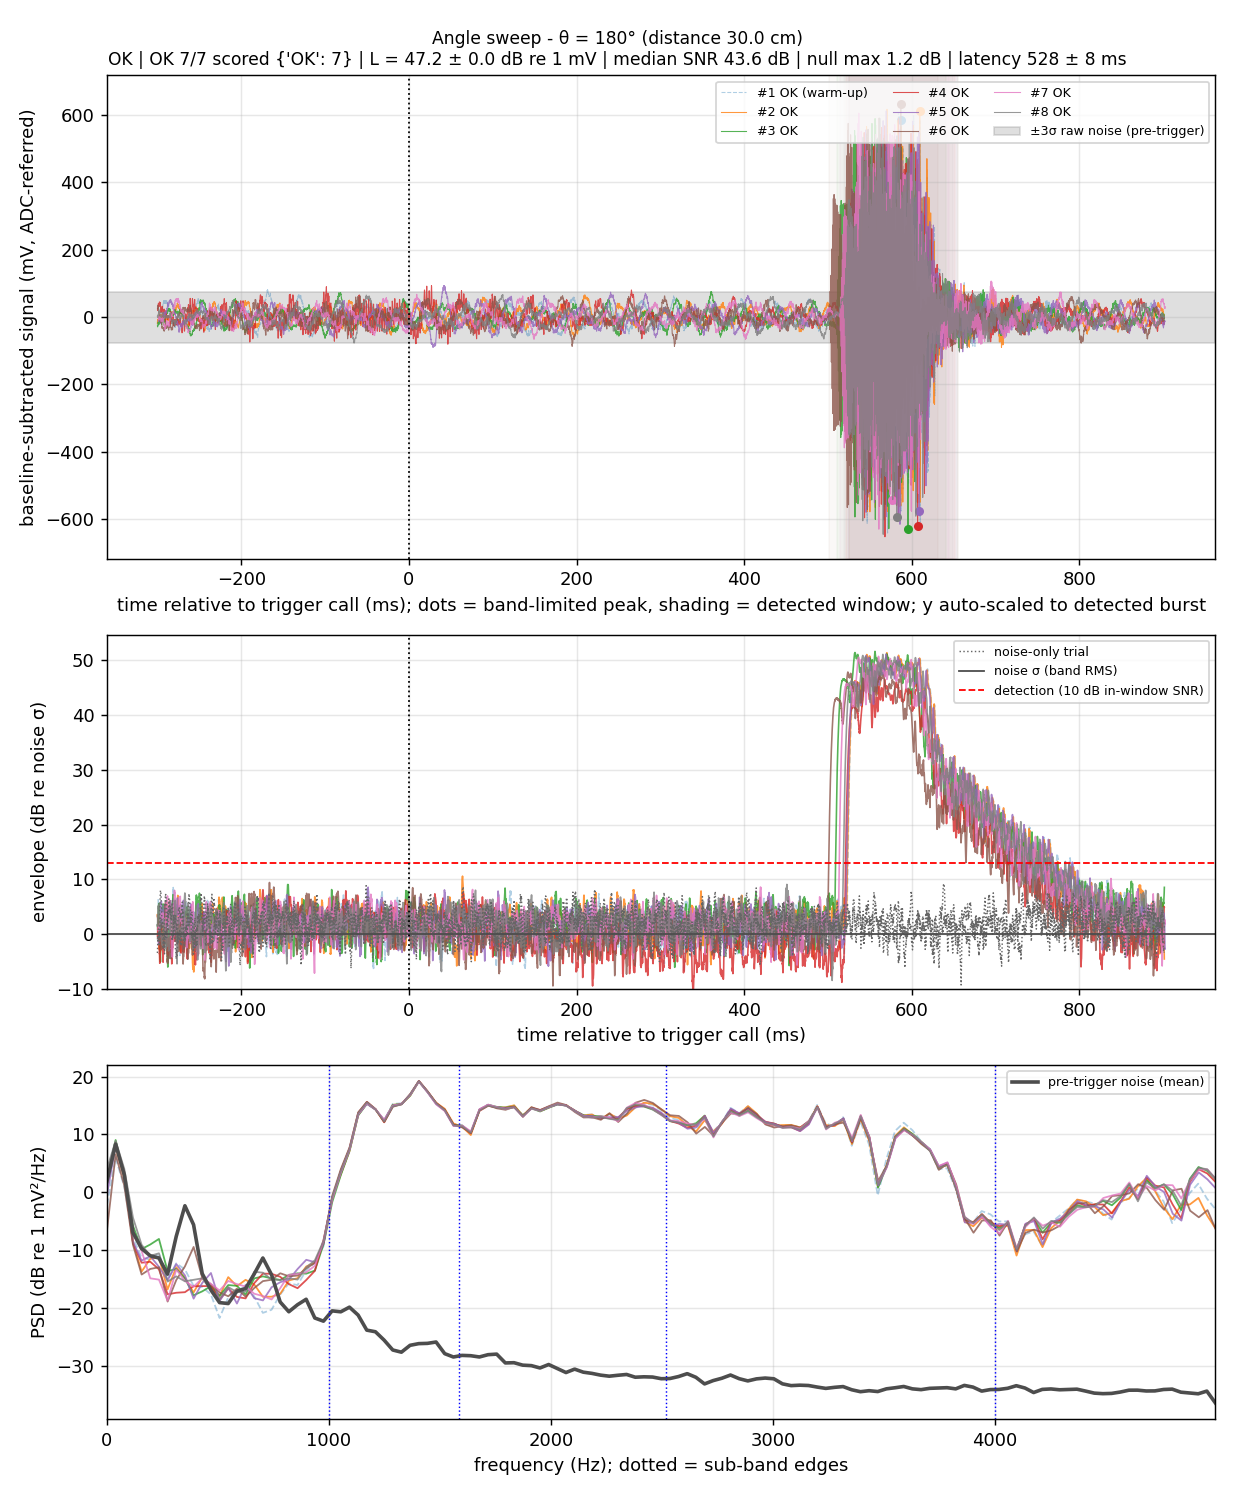
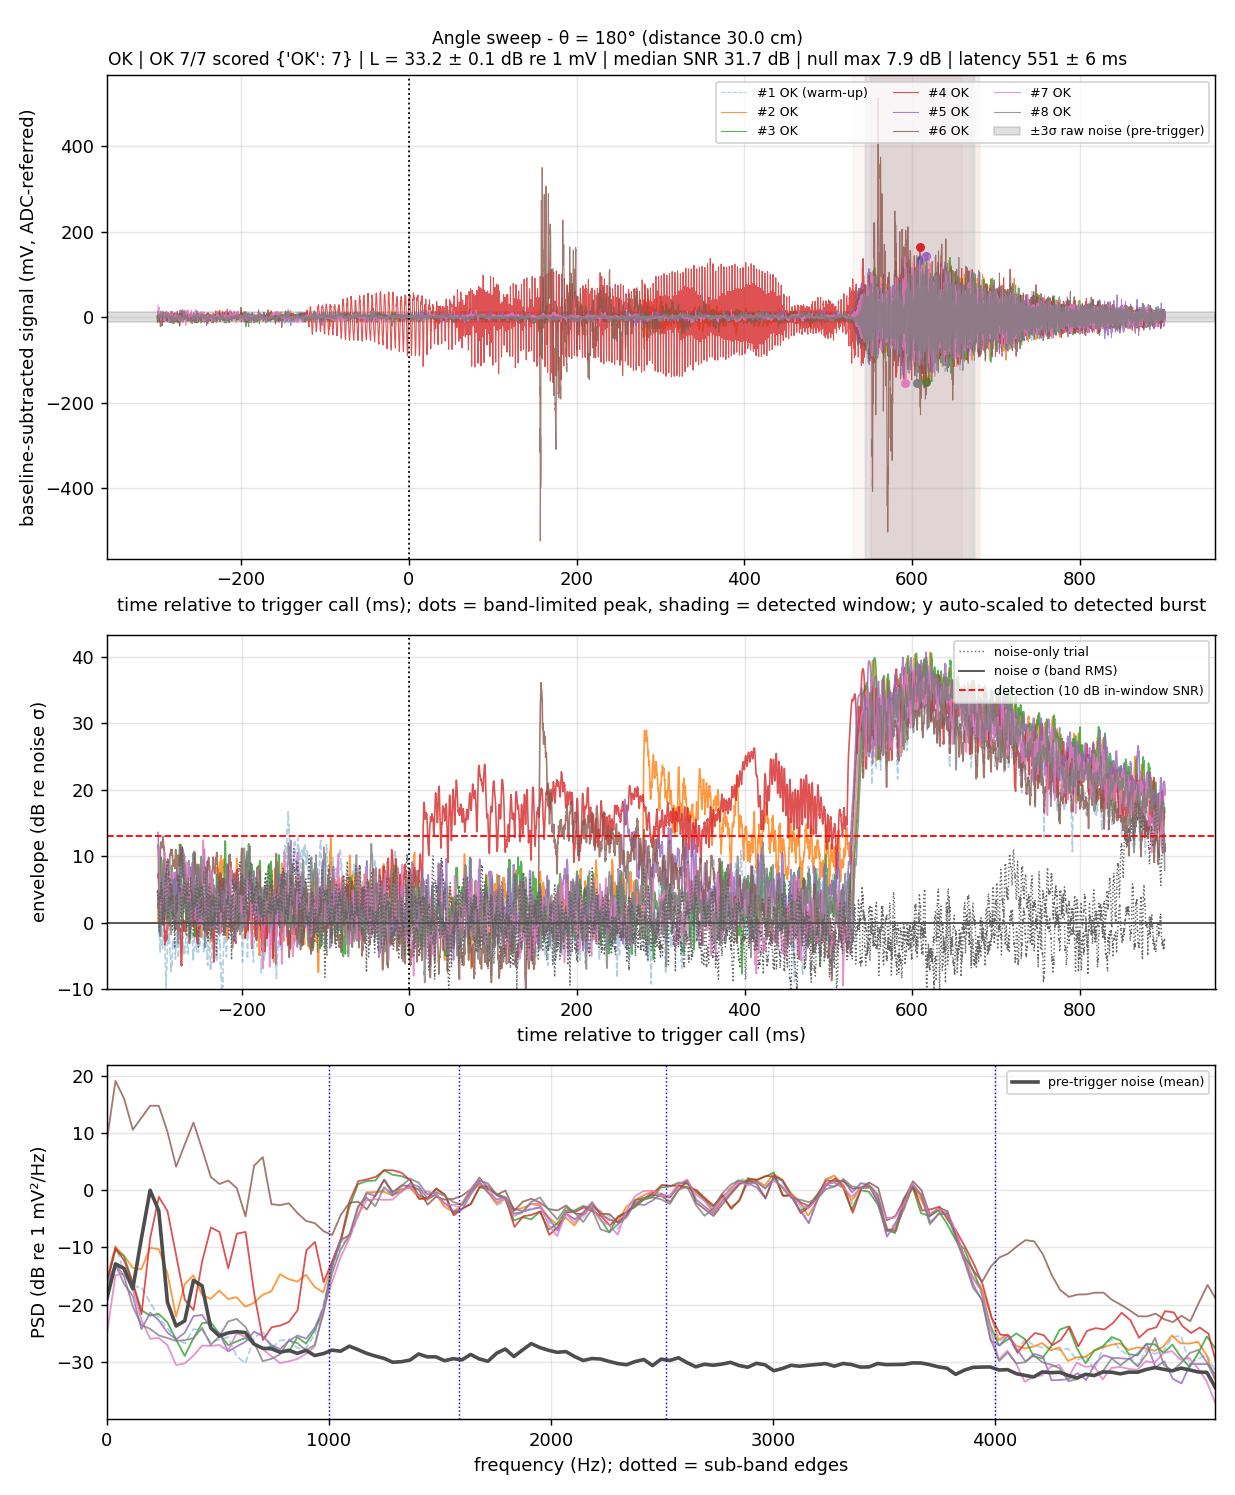
new POC

diff --git a/POC/collect_sweep_data.py b/POC/collect_sweep_data.py
@@ -58,7 +58,7 @@ BAUD_RATE = 921600
 V_REF = 3.3
 ADC_MAX = 4095.0
 MV_PER_COUNT = V_REF / ADC_MAX * 1000.0   # ADC-referred; ESP32 ADC is nonlinear, treat as relative
-ADC_LO, ADC_HI = 150, 3850                # counts outside this = clipping / nonlinear region
+ADC_LO, ADC_HI = 150, 385000                # counts outside this = clipping / nonlinear region
 
 # --- protocol
 N_TRIALS_PER_POINT = 8
@@ -83,7 +83,7 @@ EXC_KIND = "chirp"                        # "chirp" | "tone"
 EXC_F0_HZ, EXC_F1_HZ = 1000.0, 4000.0     # F1 is clamped to 0.42 * ADC fs
 EXC_TONE_HZ = 600.0
 EXC_DURATION_S = 0.10
-EXC_AMPLITUDE = 0.6                       # leave headroom: BT speakers have limiters / DRC
+EXC_AMPLITUDE = 0.2                       # leave headroom: BT speakers have limiters / DRC
 KEEPALIVE_DITHER = 1e-4                   # ~-80 dBFS noise keeps A2DP stream from suspending
 
 # --- analysis
